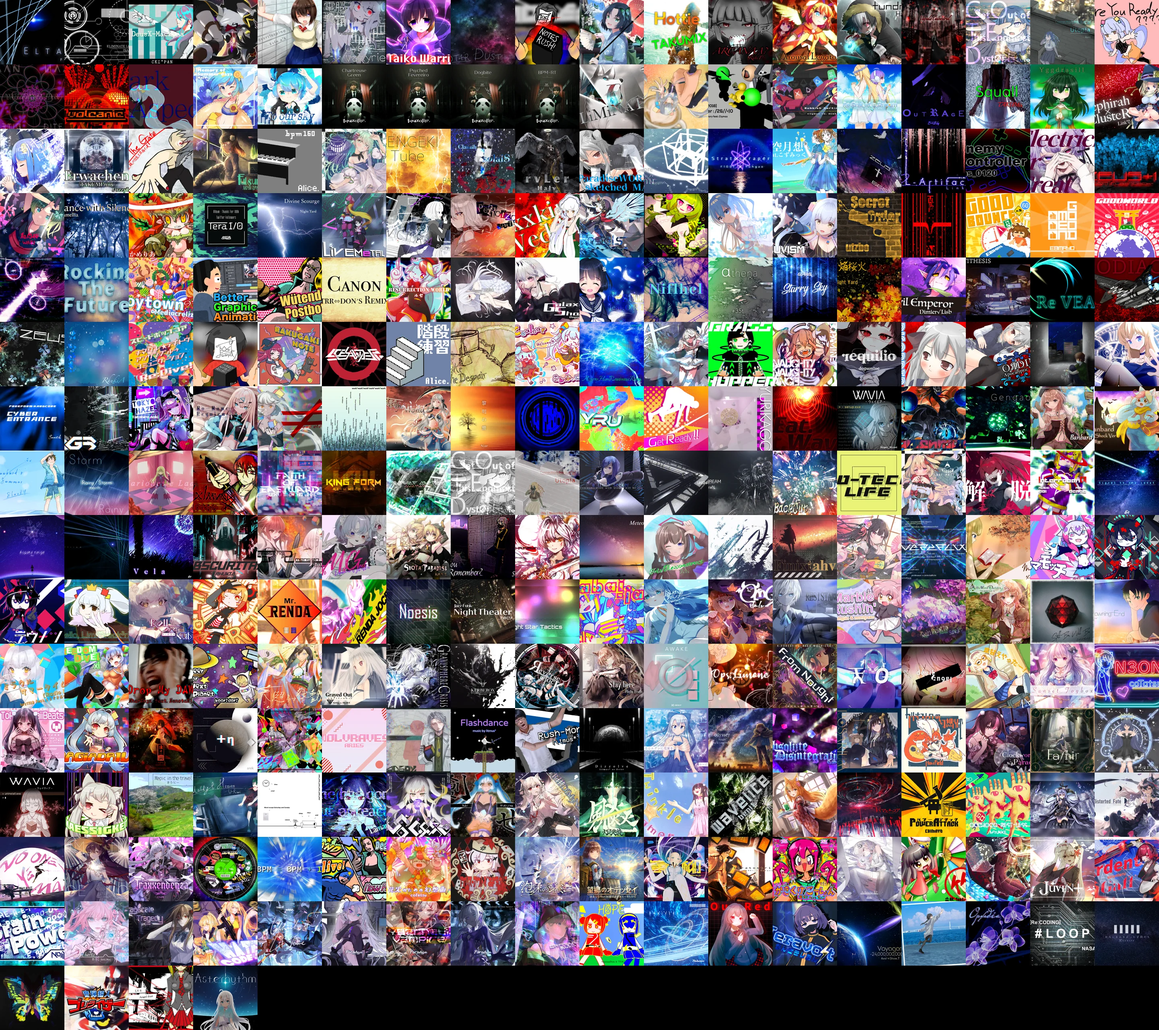
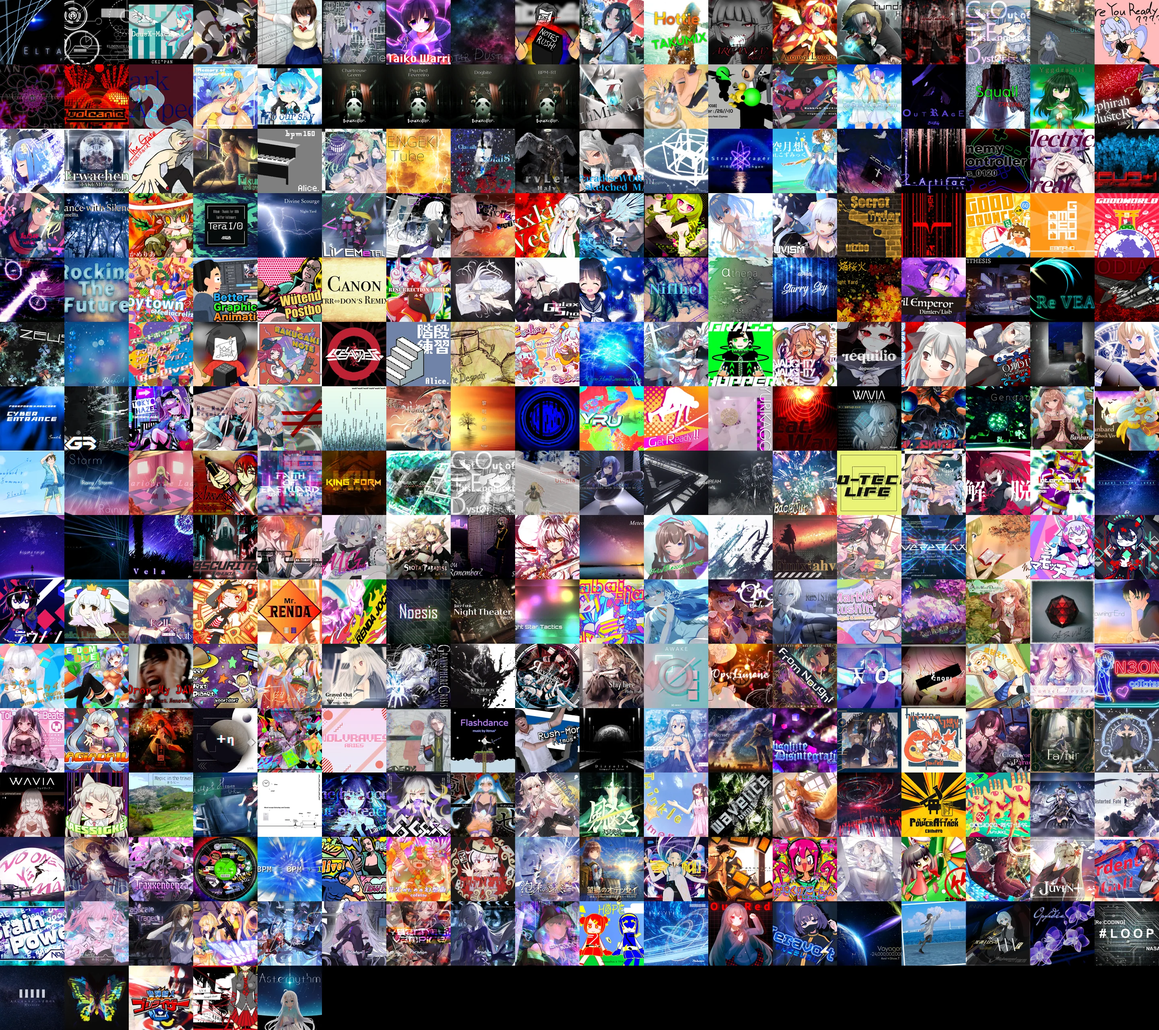
feat: sync TAKUMI catalog and refresh jackets

Changed region(s): [[0.0, 0.9375, 0.2812, 1.0], [0.8125, 0.875, 1.0, 0.9375]]

diff --git a/src/plugins/takumi_b40/core.py b/src/plugins/takumi_b40/core.py
@@ -5,6 +5,7 @@ from __future__ import annotations
 import csv
 import io
 import json
+import logging
 import math
 import re
 import secrets
@@ -31,6 +32,7 @@ SONG_CATALOG_URL = (
 )
 CHARTS_PATH = Path(__file__).with_name("charts.json")
 SONG_CATALOG_PATH = Path(__file__).with_name("song_catalog.json")
+RUNTIME_CATALOG_PATH = Path("data") / "takumi_song_catalog.json"
 JACKET_ATLAS_PATH = Path(__file__).with_name("jacket_atlas.webp")
 JACKET_INDEX_PATH = Path(__file__).with_name("jacket_atlas.json")
 MAX_RESPONSE_BYTES = 2 * 1024 * 1024
@@ -140,6 +142,7 @@ class CatalogChart:
     title: str
     difficulty: str
     level: str
+    constant: float = 0.0
 
 
 @dataclass(frozen=True)
@@ -149,6 +152,7 @@ class GameScore:
     difficulty: str
     level: str
     score: int
+    constant: float = 0.0
 
 
 @dataclass(frozen=True)
@@ -183,6 +187,7 @@ class B40Result:
 _CACHE_LOCK = threading.Lock()
 _RESULT_CACHE: Dict[str, Tuple[float, B40Result]] = {}
 _CATALOG_CACHE: Optional[Tuple[float, Tuple[CatalogChart, ...]]] = None
+logger = logging.getLogger(__name__)
 
 
 def validate_email(value: str) -> str:
@@ -332,14 +337,19 @@ def load_chart_table() -> Tuple[dict, ...]:
     return tuple(item for item in payload if isinstance(item, dict))
 
 
-def _visible_level_from_sheet(value: str) -> Optional[str]:
+def _constant_from_sheet(value: str) -> Optional[float]:
     try:
         encoded = int(str(value).strip())
     except (TypeError, ValueError):
         return None
     if encoded < 10 or encoded >= 9999:
         return None
-    return _visible_level(encoded / 10)
+    return encoded / 10
+
+
+def _visible_level_from_sheet(value: str) -> Optional[str]:
+    constant = _constant_from_sheet(value)
+    return _visible_level(constant) if constant is not None else None
 
 
 def _catalog_from_rows(rows: Sequence[dict]) -> Tuple[CatalogChart, ...]:
@@ -360,15 +370,17 @@ def _catalog_from_rows(rows: Sequence[dict]) -> Tuple[CatalogChart, ...]:
             else "INSANITY"
         )
         for index, difficulty in enumerate(("NORMAL", "HARD", "MASTER", fourth)):
-            level = _visible_level_from_sheet(levels[index])
-            if level:
-                charts.append(CatalogChart(song_id, title, difficulty, level))
+            constant = _constant_from_sheet(levels[index])
+            if constant is not None:
+                charts.append(CatalogChart(
+                    song_id, title, difficulty, _visible_level(constant), constant
+                ))
     if not charts:
         raise TakumiChartDataError("TAKUMI³ 歌曲 ID 表为空。")
     return tuple(charts)
 
 
-def _catalog_from_csv(content: str) -> Tuple[CatalogChart, ...]:
+def _catalog_payload_from_csv(content: str) -> List[dict]:
     try:
         rows = list(csv.reader(io.StringIO(content.lstrip("\ufeff"))))
     except csv.Error as exc:
@@ -383,21 +395,62 @@ def _catalog_from_csv(content: str) -> Tuple[CatalogChart, ...]:
             continue
         payload.append({
             "song_id": song_id,
+            "internal_name": row[0],
             "title": row[17] or row[0],
             "levels": row[7:11],
             "special": row[11],
+            "is_public": (
+                row[18].strip().lower() == "true" if len(row) > 18 else False
+            ),
         })
-    return _catalog_from_rows(payload)
+    # Validate before replacing the last known-good local copy.
+    _catalog_from_rows(payload)
+    return payload
 
 
-def _load_bundled_catalog() -> Tuple[CatalogChart, ...]:
+def _catalog_from_csv(content: str) -> Tuple[CatalogChart, ...]:
+    return _catalog_from_rows(_catalog_payload_from_csv(content))
+
+
+def _load_catalog_file(path: Path) -> Tuple[CatalogChart, ...]:
     try:
-        payload = json.loads(SONG_CATALOG_PATH.read_text(encoding="utf-8"))
+        payload = json.loads(path.read_text(encoding="utf-8"))
     except (OSError, json.JSONDecodeError) as exc:
         raise TakumiChartDataError("TAKUMI³ 本地歌曲 ID 表读取失败。") from exc
     if not isinstance(payload, list):
         raise TakumiChartDataError("TAKUMI³ 本地歌曲 ID 表格式异常。")
     return _catalog_from_rows(payload)
+
+
+def _save_runtime_catalog(payload: Sequence[dict]) -> None:
+    """Atomically persist the latest validated online catalog."""
+    document = json.dumps(payload, ensure_ascii=False, indent=2) + "\n"
+    try:
+        if (
+            RUNTIME_CATALOG_PATH.exists()
+            and RUNTIME_CATALOG_PATH.read_text(encoding="utf-8") == document
+        ):
+            return
+        RUNTIME_CATALOG_PATH.parent.mkdir(parents=True, exist_ok=True)
+        temporary = RUNTIME_CATALOG_PATH.with_suffix(".json.tmp")
+        temporary.write_text(document, encoding="utf-8")
+        temporary.replace(RUNTIME_CATALOG_PATH)
+    except OSError:
+        # A read-only deployment must still be able to use the online response.
+        logger.warning("Failed to persist the TAKUMI³ online song catalog", exc_info=True)
+
+
+def _load_bundled_catalog() -> Tuple[CatalogChart, ...]:
+    return _load_catalog_file(SONG_CATALOG_PATH)
+
+
+def _load_local_catalog() -> Tuple[CatalogChart, ...]:
+    if RUNTIME_CATALOG_PATH.exists():
+        try:
+            return _load_catalog_file(RUNTIME_CATALOG_PATH)
+        except TakumiChartDataError:
+            logger.warning("Ignoring an invalid TAKUMI³ runtime catalog", exc_info=True)
+    return _load_bundled_catalog()
 
 
 def load_song_catalog(force_refresh: bool = False) -> Tuple[CatalogChart, ...]:
@@ -419,13 +472,15 @@ def load_song_catalog(force_refresh: bool = False) -> Tuple[CatalogChart, ...]:
         )
         response.raise_for_status()
         if len(response.content) <= MAX_CATALOG_BYTES:
-            catalog = _catalog_from_csv(
+            payload = _catalog_payload_from_csv(
                 response.content.decode("utf-8-sig", errors="strict")
             )
+            catalog = _catalog_from_rows(payload)
+            _save_runtime_catalog(payload)
     except (requests.RequestException, UnicodeError, TakumiChartDataError):
         catalog = None
     if catalog is None:
-        catalog = _load_bundled_catalog()
+        catalog = _load_local_catalog()
     with _CACHE_LOCK:
         _CATALOG_CACHE = (time.monotonic(), catalog)
     return catalog
@@ -506,7 +561,8 @@ def resolve_game_scores(
             unknown += 1
             continue
         resolved.append(GameScore(
-            song_id, item.title, item.difficulty, item.level, score
+            song_id, item.title, item.difficulty, item.level, score,
+            item.constant,
         ))
     return resolved, unknown
 
@@ -635,6 +691,30 @@ def match_scores(
         previous = best_by_chart.get(item.chart_id)
         if previous is None or item.score > previous.score:
             best_by_chart[item.chart_id] = item
+
+    # The online SongsInfo sheet carries constants in tenths (for example 139
+    # means 13.9). Community data remains the preferred source so its aliases
+    # keep working, while this fallback makes newly released songs available
+    # immediately instead of hiding them until charts.json is refreshed.
+    for row in game_scores:
+        identity = (row.song_id, row.difficulty)
+        if identity in matched_rows or row.constant <= 0:
+            continue
+        contribution = song_contribution(row.score, row.constant)
+        item = BestScore(
+            chart_id=f"playfab:{row.song_id}:{row.difficulty}",
+            title=row.title,
+            difficulty=row.difficulty,
+            constant=row.constant,
+            score=row.score,
+            contribution=contribution,
+            single_rating=contribution * 40,
+            rank=score_rank(row.score),
+            song_id=row.song_id,
+            display_level=row.level,
+        )
+        best_by_chart[item.chart_id] = item
+        matched_rows.add(identity)
     return list(best_by_chart.values()), len(game_scores) - len(matched_rows)
 
 

diff --git a/tests/test_takumi_b40.py b/tests/test_takumi_b40.py
@@ -57,6 +57,14 @@ class FakeResponse:
         return self._payload
 
 
+class FakeCatalogResponse:
+    def __init__(self, content):
+        self.content = content
+
+    def raise_for_status(self):
+        return None
+
+
 class TakumiRatingTests(unittest.TestCase):
     def test_rating_formula_boundaries(self):
         constant = 15.0
@@ -138,12 +146,51 @@ class TakumiRatingTests(unittest.TestCase):
         catalog = CORE._load_bundled_catalog()
         game_scores = [
             CORE.GameScore(
-                item.song_id, item.title, item.difficulty, item.level, 1_000_000
+                item.song_id, item.title, item.difficulty, item.level,
+                1_000_000, item.constant,
             )
             for item in catalog
         ]
         matched, _ = CORE.match_scores(game_scores)
-        self.assertEqual(len(matched), len(CORE.load_chart_table()))
+        self.assertEqual(len(matched), len(game_scores))
+
+    def test_online_constant_fills_a_missing_community_chart(self):
+        user_data = {
+            "0202_SongScore_Regular_Master": {
+                "Value": json.dumps([{"SongID": 302, "Score": 999_000}])
+            }
+        }
+        catalog = [CatalogChart(302, "New Song", "MASTER", "13+", 13.9)]
+
+        result = build_b40_from_user_data(
+            user_data, catalog=catalog, charts=[], fetched_at=1.0
+        )
+
+        self.assertEqual(result.unmatched_row_count, 0)
+        self.assertEqual(result.all_scores[0].constant, 13.9)
+        self.assertEqual(result.all_scores[0].chart_id, "playfab:302:MASTER")
+
+    def test_online_catalog_is_persisted_and_keeps_exact_constants(self):
+        header = [f"column-{index}" for index in range(19)]
+        row = [""] * 19
+        row[0] = "NewSongInternal"
+        row[7:11] = ["60", "120", "139", "155"]
+        row[11] = "Dl"
+        row[15] = "302"
+        row[17] = "New Song"
+        row[18] = "true"
+        content = (",".join(header) + "\n" + ",".join(row)).encode("utf-8")
+
+        CORE._CATALOG_CACHE = None
+        with patch.object(
+            CORE.requests, "get", return_value=FakeCatalogResponse(content)
+        ), patch.object(CORE, "_save_runtime_catalog") as save:
+            catalog = CORE.load_song_catalog(force_refresh=True)
+
+        save.assert_called_once()
+        master = next(item for item in catalog if item.difficulty == "MASTER")
+        self.assertEqual(master.constant, 13.9)
+        self.assertEqual(master.level, "13+")
 
 
 class TakumiPlayFabTests(unittest.TestCase):
@@ -207,7 +254,8 @@ class TakumiRendererTests(unittest.TestCase):
         self.assertEqual(jacket.size, (160, 160))
         _, songs, _, _ = CORE._load_jacket_atlas()
         song_catalog = json.loads(CORE.SONG_CATALOG_PATH.read_text(encoding="utf-8"))
-        self.assertEqual(len(songs), len(song_catalog))
+        catalog_ids = {int(item["song_id"]) for item in song_catalog}
+        self.assertTrue({int(song_id) for song_id in songs}.issubset(catalog_ids))
 
     def test_renderer_outputs_full_b40_canvas(self):
         scores = tuple(

diff --git a/tools/extract_takumi_jackets.py b/tools/extract_takumi_jackets.py
@@ -81,8 +81,10 @@ def main() -> None:
         atlas.paste(artwork, (column * CELL_SIZE, row * CELL_SIZE))
         index[str(song_id)] = position
 
-    atlas.save(ATLAS_PATH, "WEBP", quality=88, method=6)
-    INDEX_PATH.write_text(
+    atlas_temporary = ATLAS_PATH.with_suffix(".webp.tmp")
+    index_temporary = INDEX_PATH.with_suffix(".json.tmp")
+    atlas.save(atlas_temporary, "WEBP", quality=88, method=6)
+    index_temporary.write_text(
         json.dumps(
             {"cell_size": CELL_SIZE, "columns": COLUMNS, "songs": index},
             ensure_ascii=False,
@@ -90,6 +92,8 @@ def main() -> None:
         ) + "\n",
         encoding="utf-8",
     )
+    atlas_temporary.replace(ATLAS_PATH)
+    index_temporary.replace(INDEX_PATH)
     print(f"extracted {len(extracted)} jackets; missing {len(missing)}")
     for item in missing:
         print("missing", *item)

diff --git a/src/plugins/takumi_b40/CHART_DATA_SOURCE.md b/src/plugins/takumi_b40/CHART_DATA_SOURCE.md
@@ -12,7 +12,11 @@ the current official catalog; rating constants remain unchanged.
 `song_catalog.json` maps PlayFab song IDs to titles, difficulties, and visible
 levels. It is generated from the game's public `SongsInfo` sheet with
 `tools/update_takumi_catalog.py`. At runtime the bot refreshes that sheet and
-falls back to the bundled snapshot when Google Sheets is unavailable.
+atomically saves the latest validated copy to `data/takumi_song_catalog.json`.
+That persistent runtime copy is used when Google Sheets is unavailable, with
+the bundled snapshot as the final fallback. Exact constants encoded by the
+sheet are also used as a fallback for charts missing from `charts.json`, so a
+newly released song is not hidden while the community snapshot catches up.
 
 `jacket_atlas.webp` and `jacket_atlas.json` contain a compact song-ID-indexed
 atlas generated from the official Android APK by
